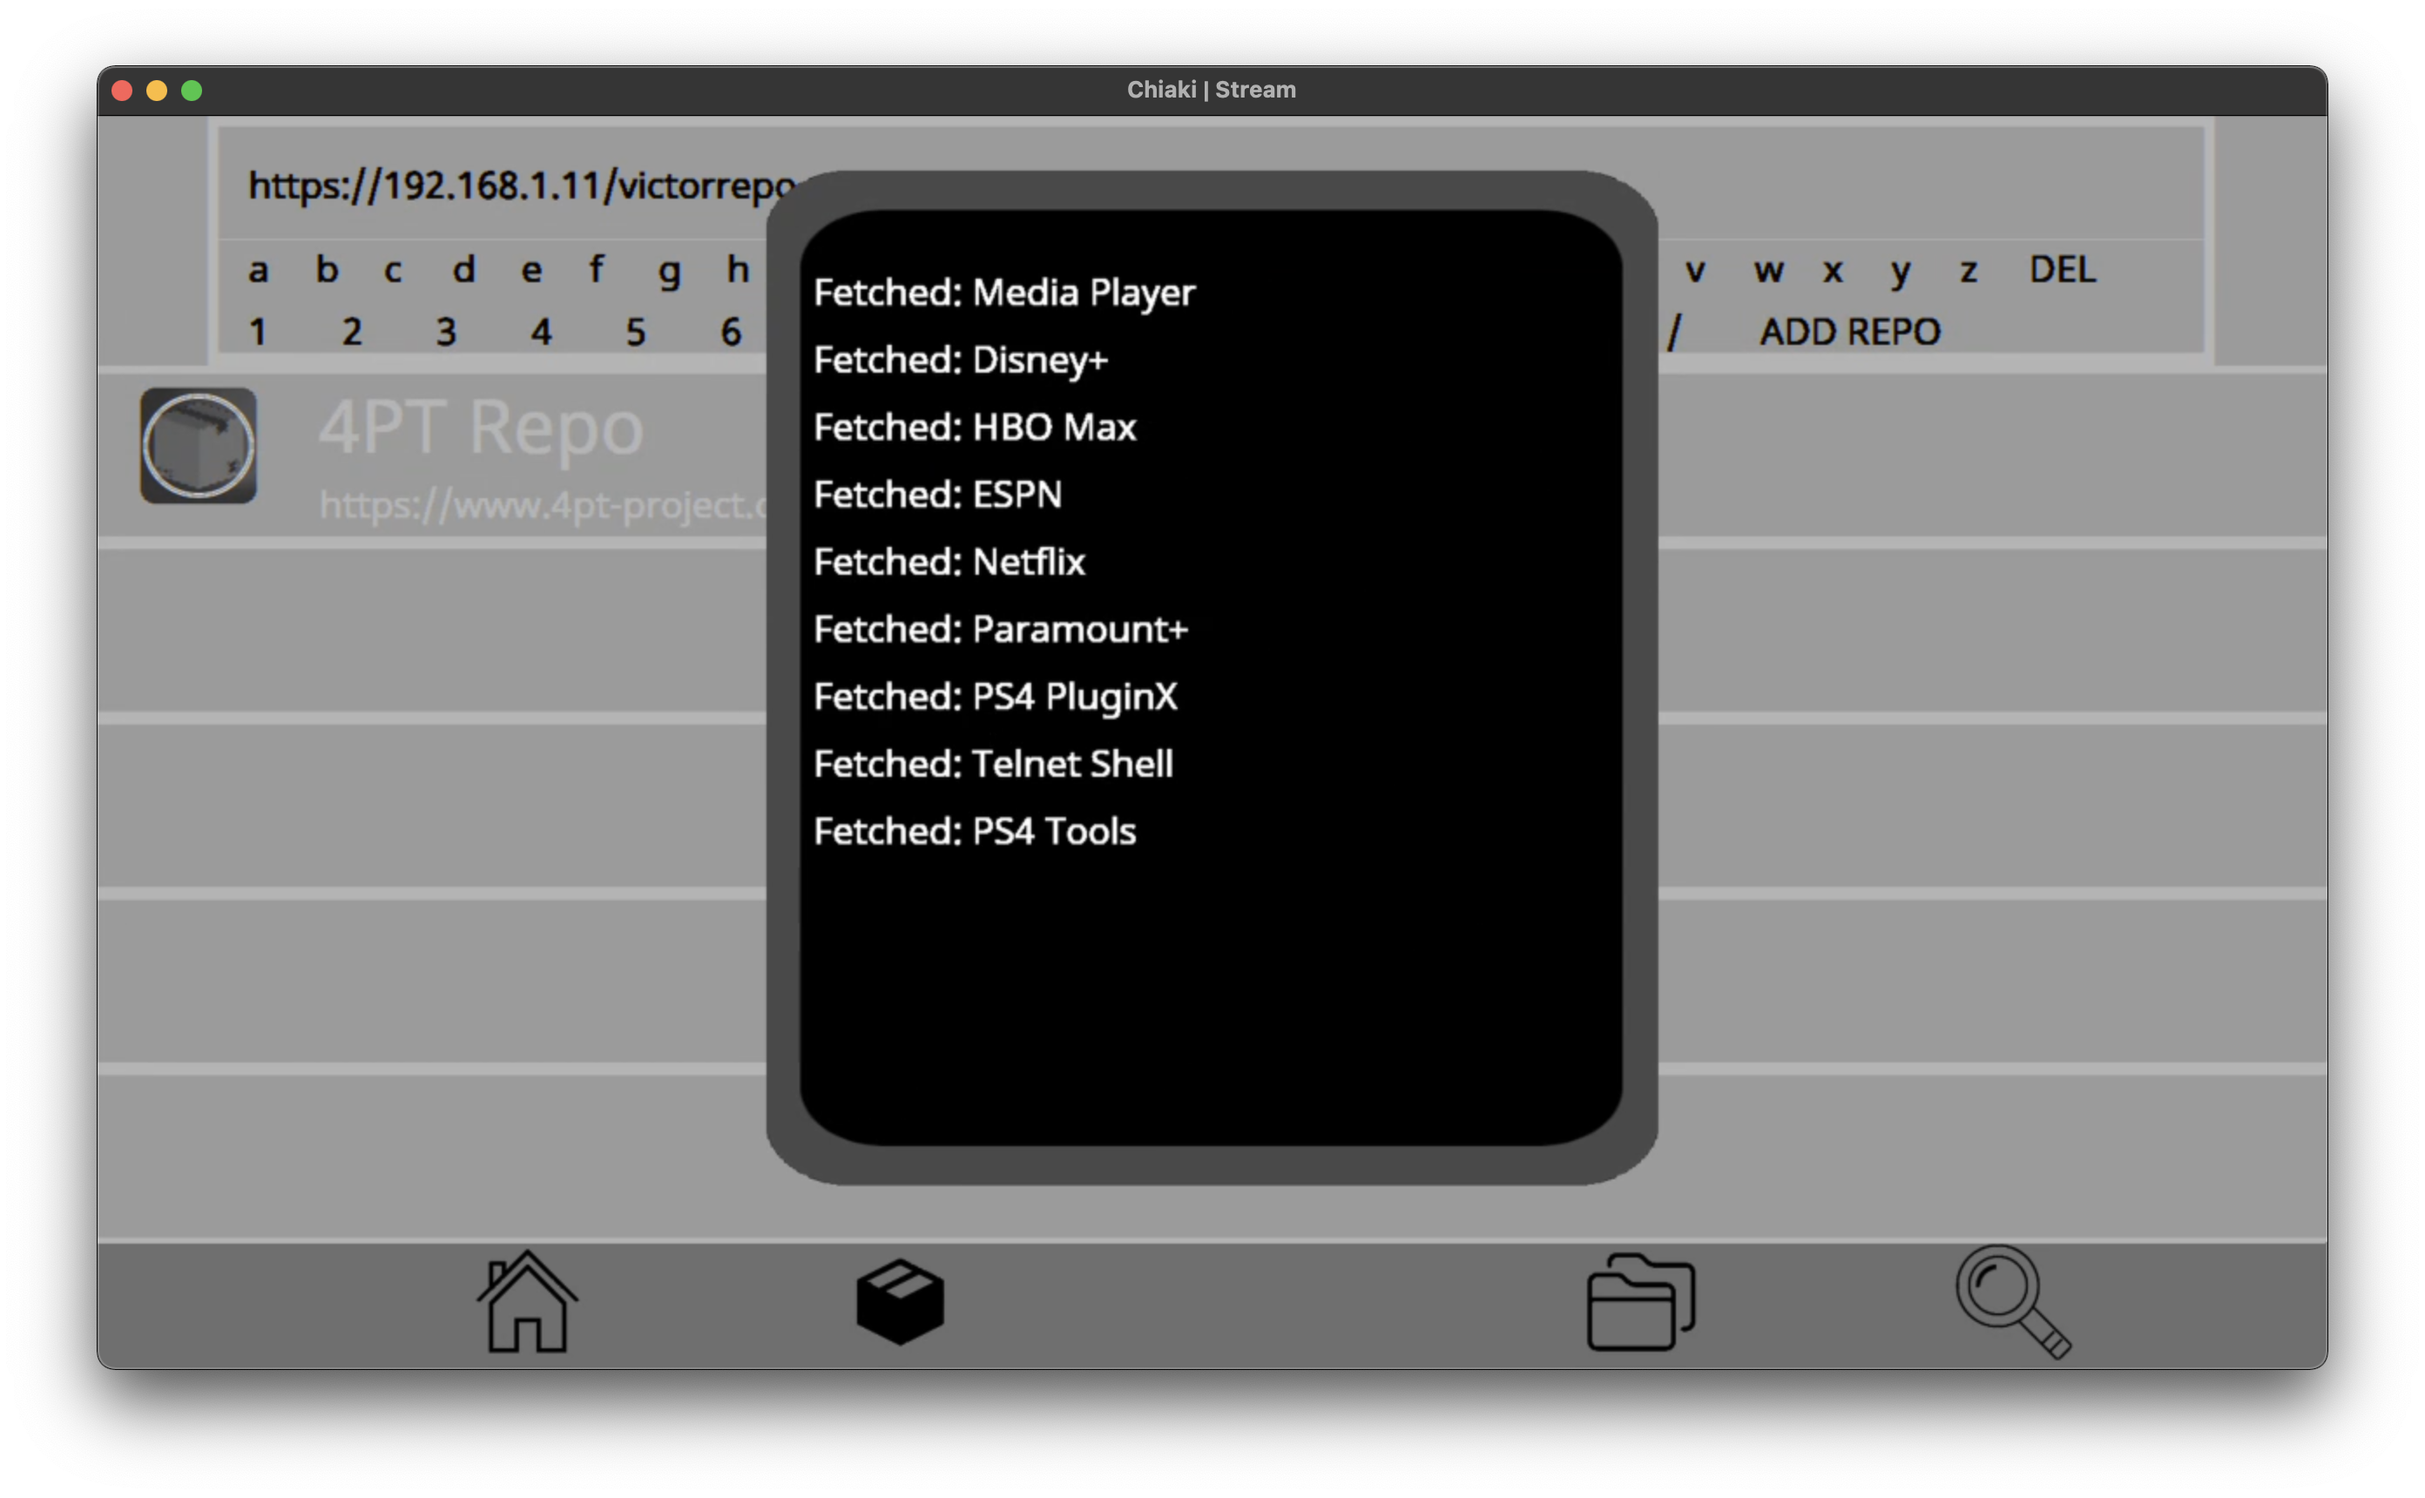
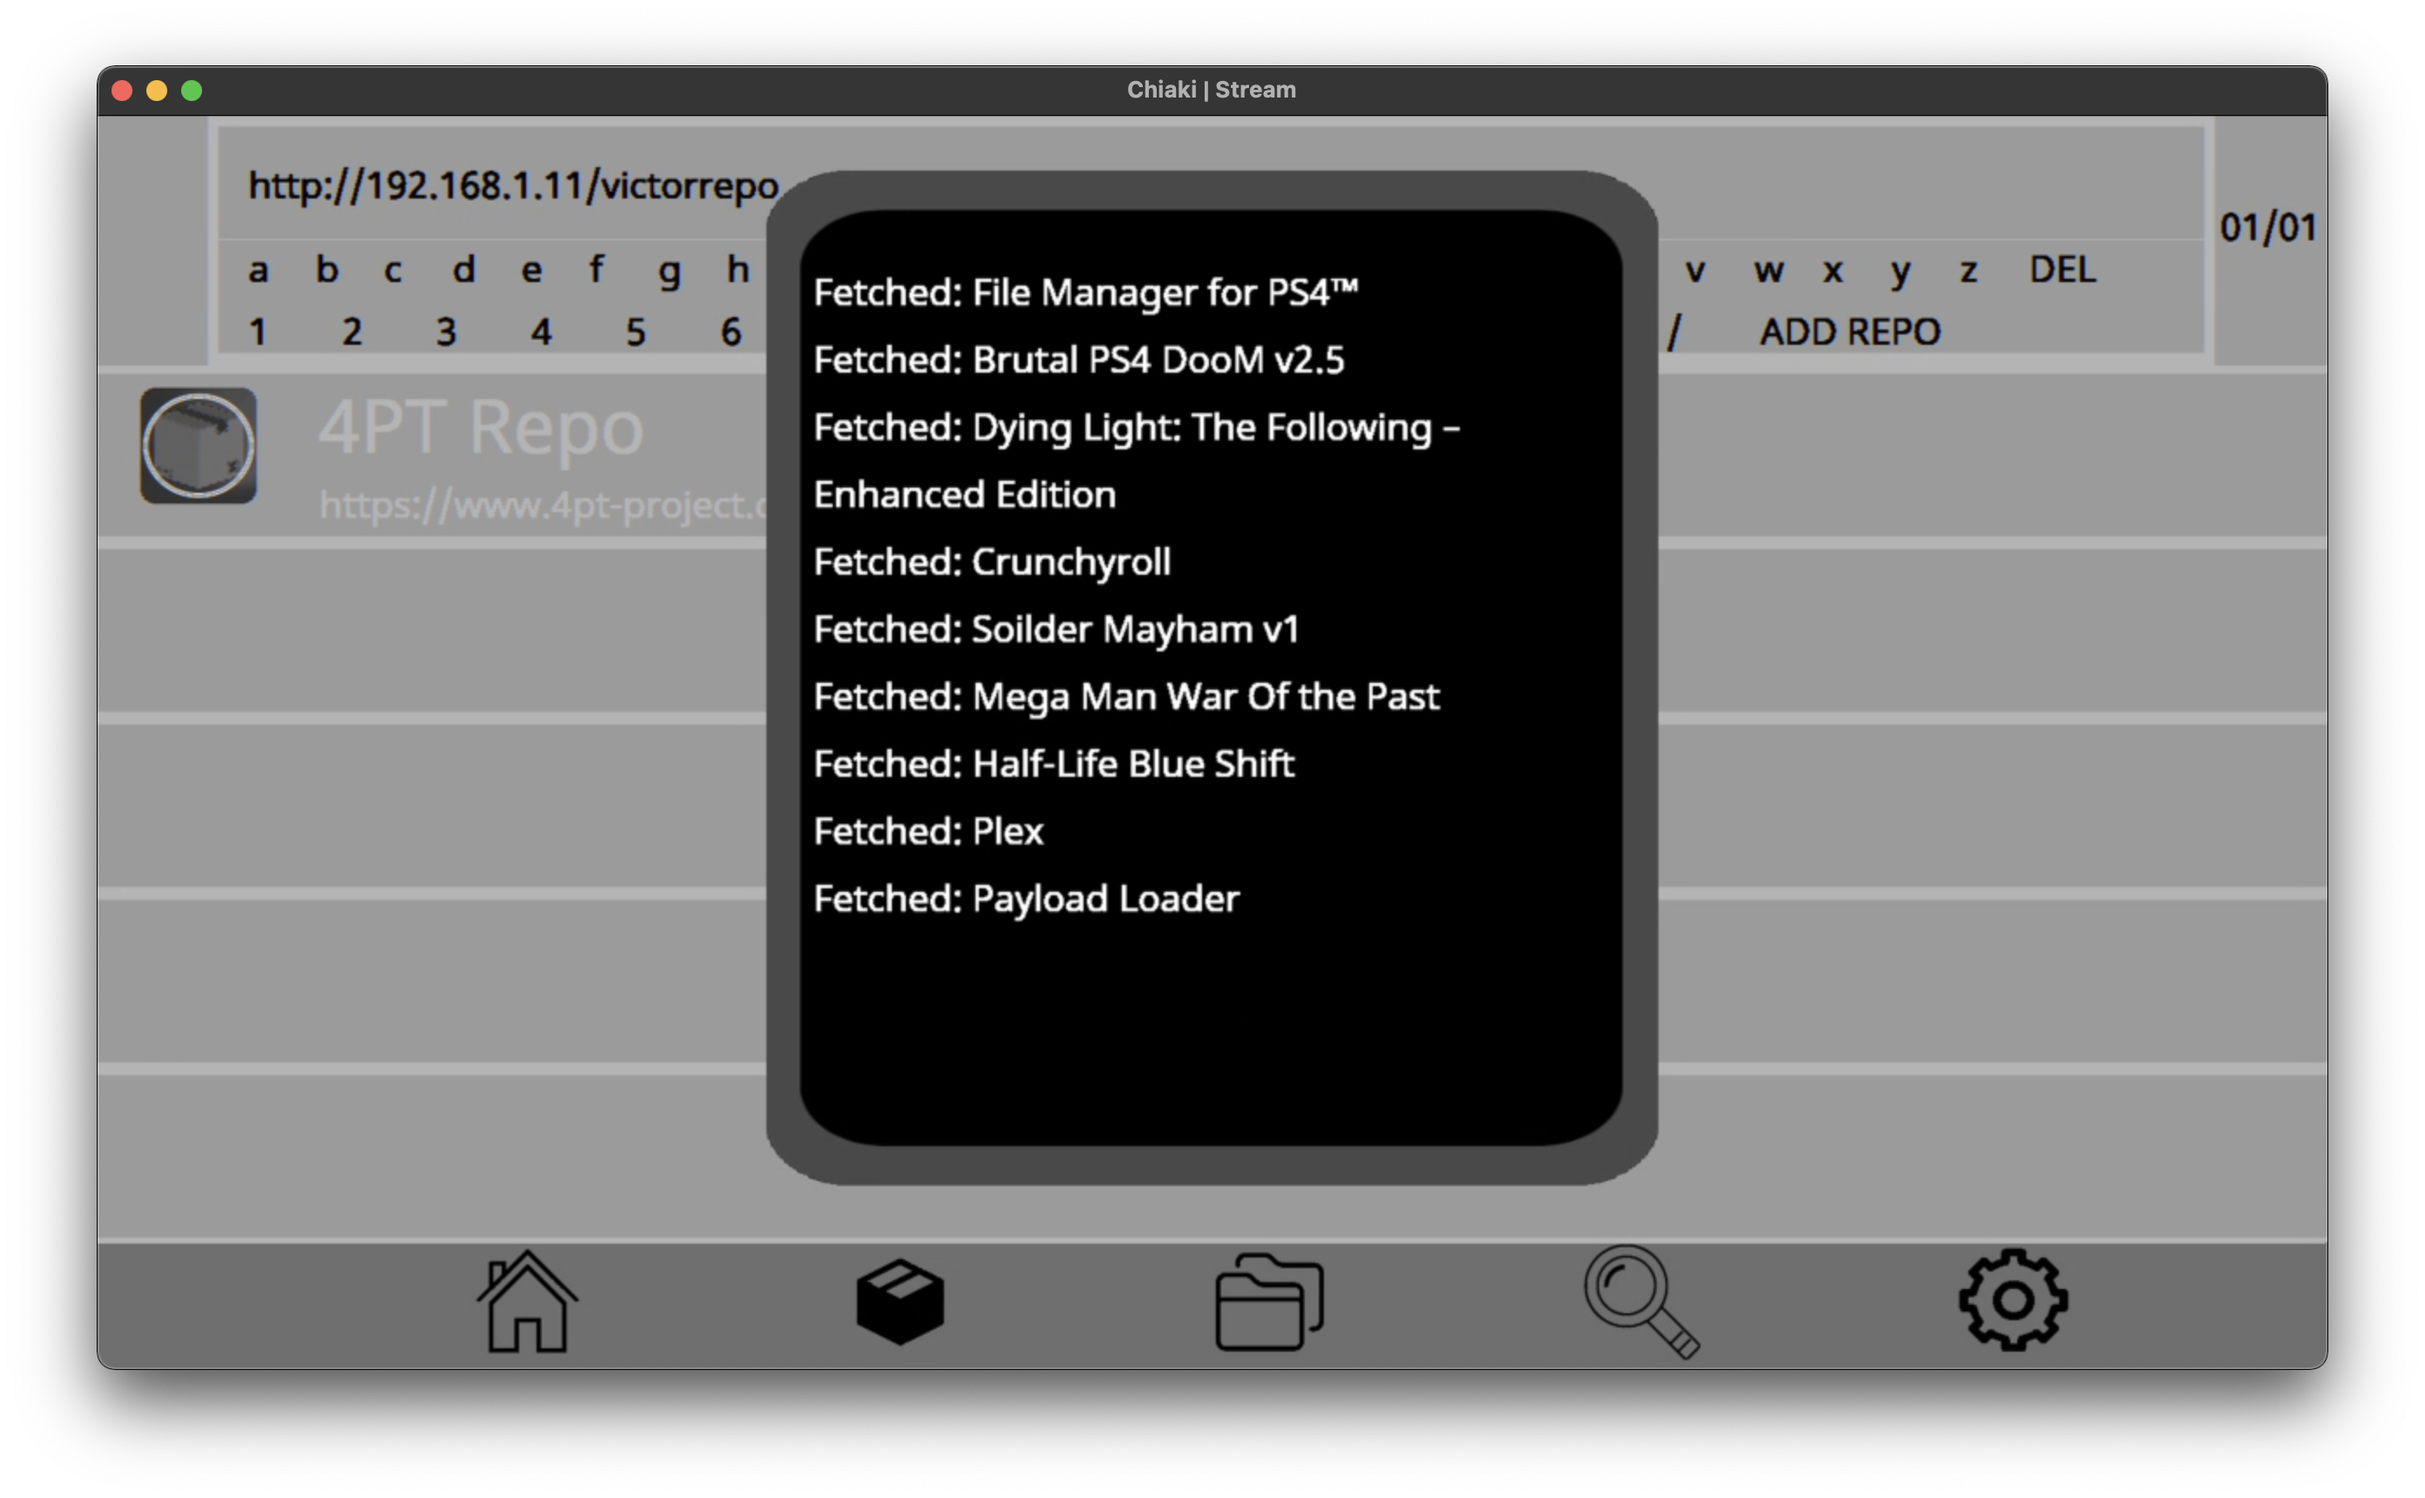
Updated screenshots, README.md and TUTORIAL.md for the new version

diff --git a/README.md b/README.md
@@ -128,30 +128,19 @@ _For information on creating a repo, please refer to  [4PT-Repository](https://g
 
 <div id="st"></div>
 
+### Version 2.55 (~2 Month)
 
-### Version 2.5 (~3 Months)
+- [ ] Fix bug that causes the app to hang on repository load
 
-- [X] Change 4PT Stored data path to /data/4PT/
-- [X] Optimize Loading Repository Speed, gone from 1.25 Packages per second to 9.12 Packages per second. A 
-Repo with 123 packages now takes 13.5 seconds to load, instead of 98 seconds.
-- [X] If Repo update fails, do not delete all packages :)
-- [X] Filter PKGs by type, updates available
-- [X] Implement sorting by size, version, alphabetically...
-- [X] Add Animated GIF STBI Reading (Repo/PKG Icons)
-- [X] Fix package flicker when rapidly changing selected package
-- [X] Implemented custom port support!
-- [X] Fix bug that causes the app to hang when loading a repositories packages
-- [X] Fix bug that would cause the app to crash when rapidly changing selected PKG
-- [X] Implement proper App deallocation when error signal sent
-- [X] Add settings tab. Now users can manually change the language or disable/enable notifications.
+### Version 3.00 (~2 Month)
+
+- [ ] Add Http Authentication Support
+- [ ] Change Keyboard to UI IME
 
 <div id="lt"></div>
 
 ### Future versions (~1/2 Year)
 
-- [ ] Fix bug that causes the app to hang on repository load
-- [ ] Add Http Authentication Support
-- [ ] Change Keyboard to UI IME
 - [ ] Fix Hungarian automatic detection
 - [ ] Implement proper App deallocation when pressing the Close Application button on the PS Menu
 - [ ] Add functionality to download binaries

diff --git a/TUTORIAL.md b/TUTORIAL.md
@@ -184,11 +184,20 @@ go to the search tab (rightmost one) and type the package name on the keyboard.
 
 ### Filter-by-repository Search
 
-<img src="screenshots/screenshot6.png" width="100%"  alt=""/>
 
 To search a package by its name from a specific repository,
 go to the repository tab (2nd one) select the repository from which to filter
 and, once in the repository package list, open the keyboard and search the package.
+
+<div id="srbfltr"></div>
+
+### Filtering and sorting
+
+To sort the packages of a list, press the square button, and select sorting criteria
+(Alphabet, size, version) and whether you want it to be in Ascending or Descending order.
+
+To filter packages by their type, press the square button and select the type you desire.
+Also, if you only want available updates to be shown, select the ***only updates*** option.
 
 <div id="pkgdd"></div>
 
@@ -197,6 +206,20 @@ and, once in the repository package list, open the keyboard and search the packa
 
 To download a PKG directly from a URL, go to the home tab
 (leftmost one), enter the package URL on the keyboard and press download.
+
+***
+
+<div id="setandlang"></div>
+
+## Settings and language
+
+<img src="screenshots/screenshot6.png" width="100%"  alt=""/>
+
+To change the language, go to the settings tab (the right-most one) and 
+and select the language you desire from the available ones, by using the arrow
+and pressing X on the desired language.
+
+To enable/disable specific notifications, select them with the arrows and press X.
 
 ***
 
